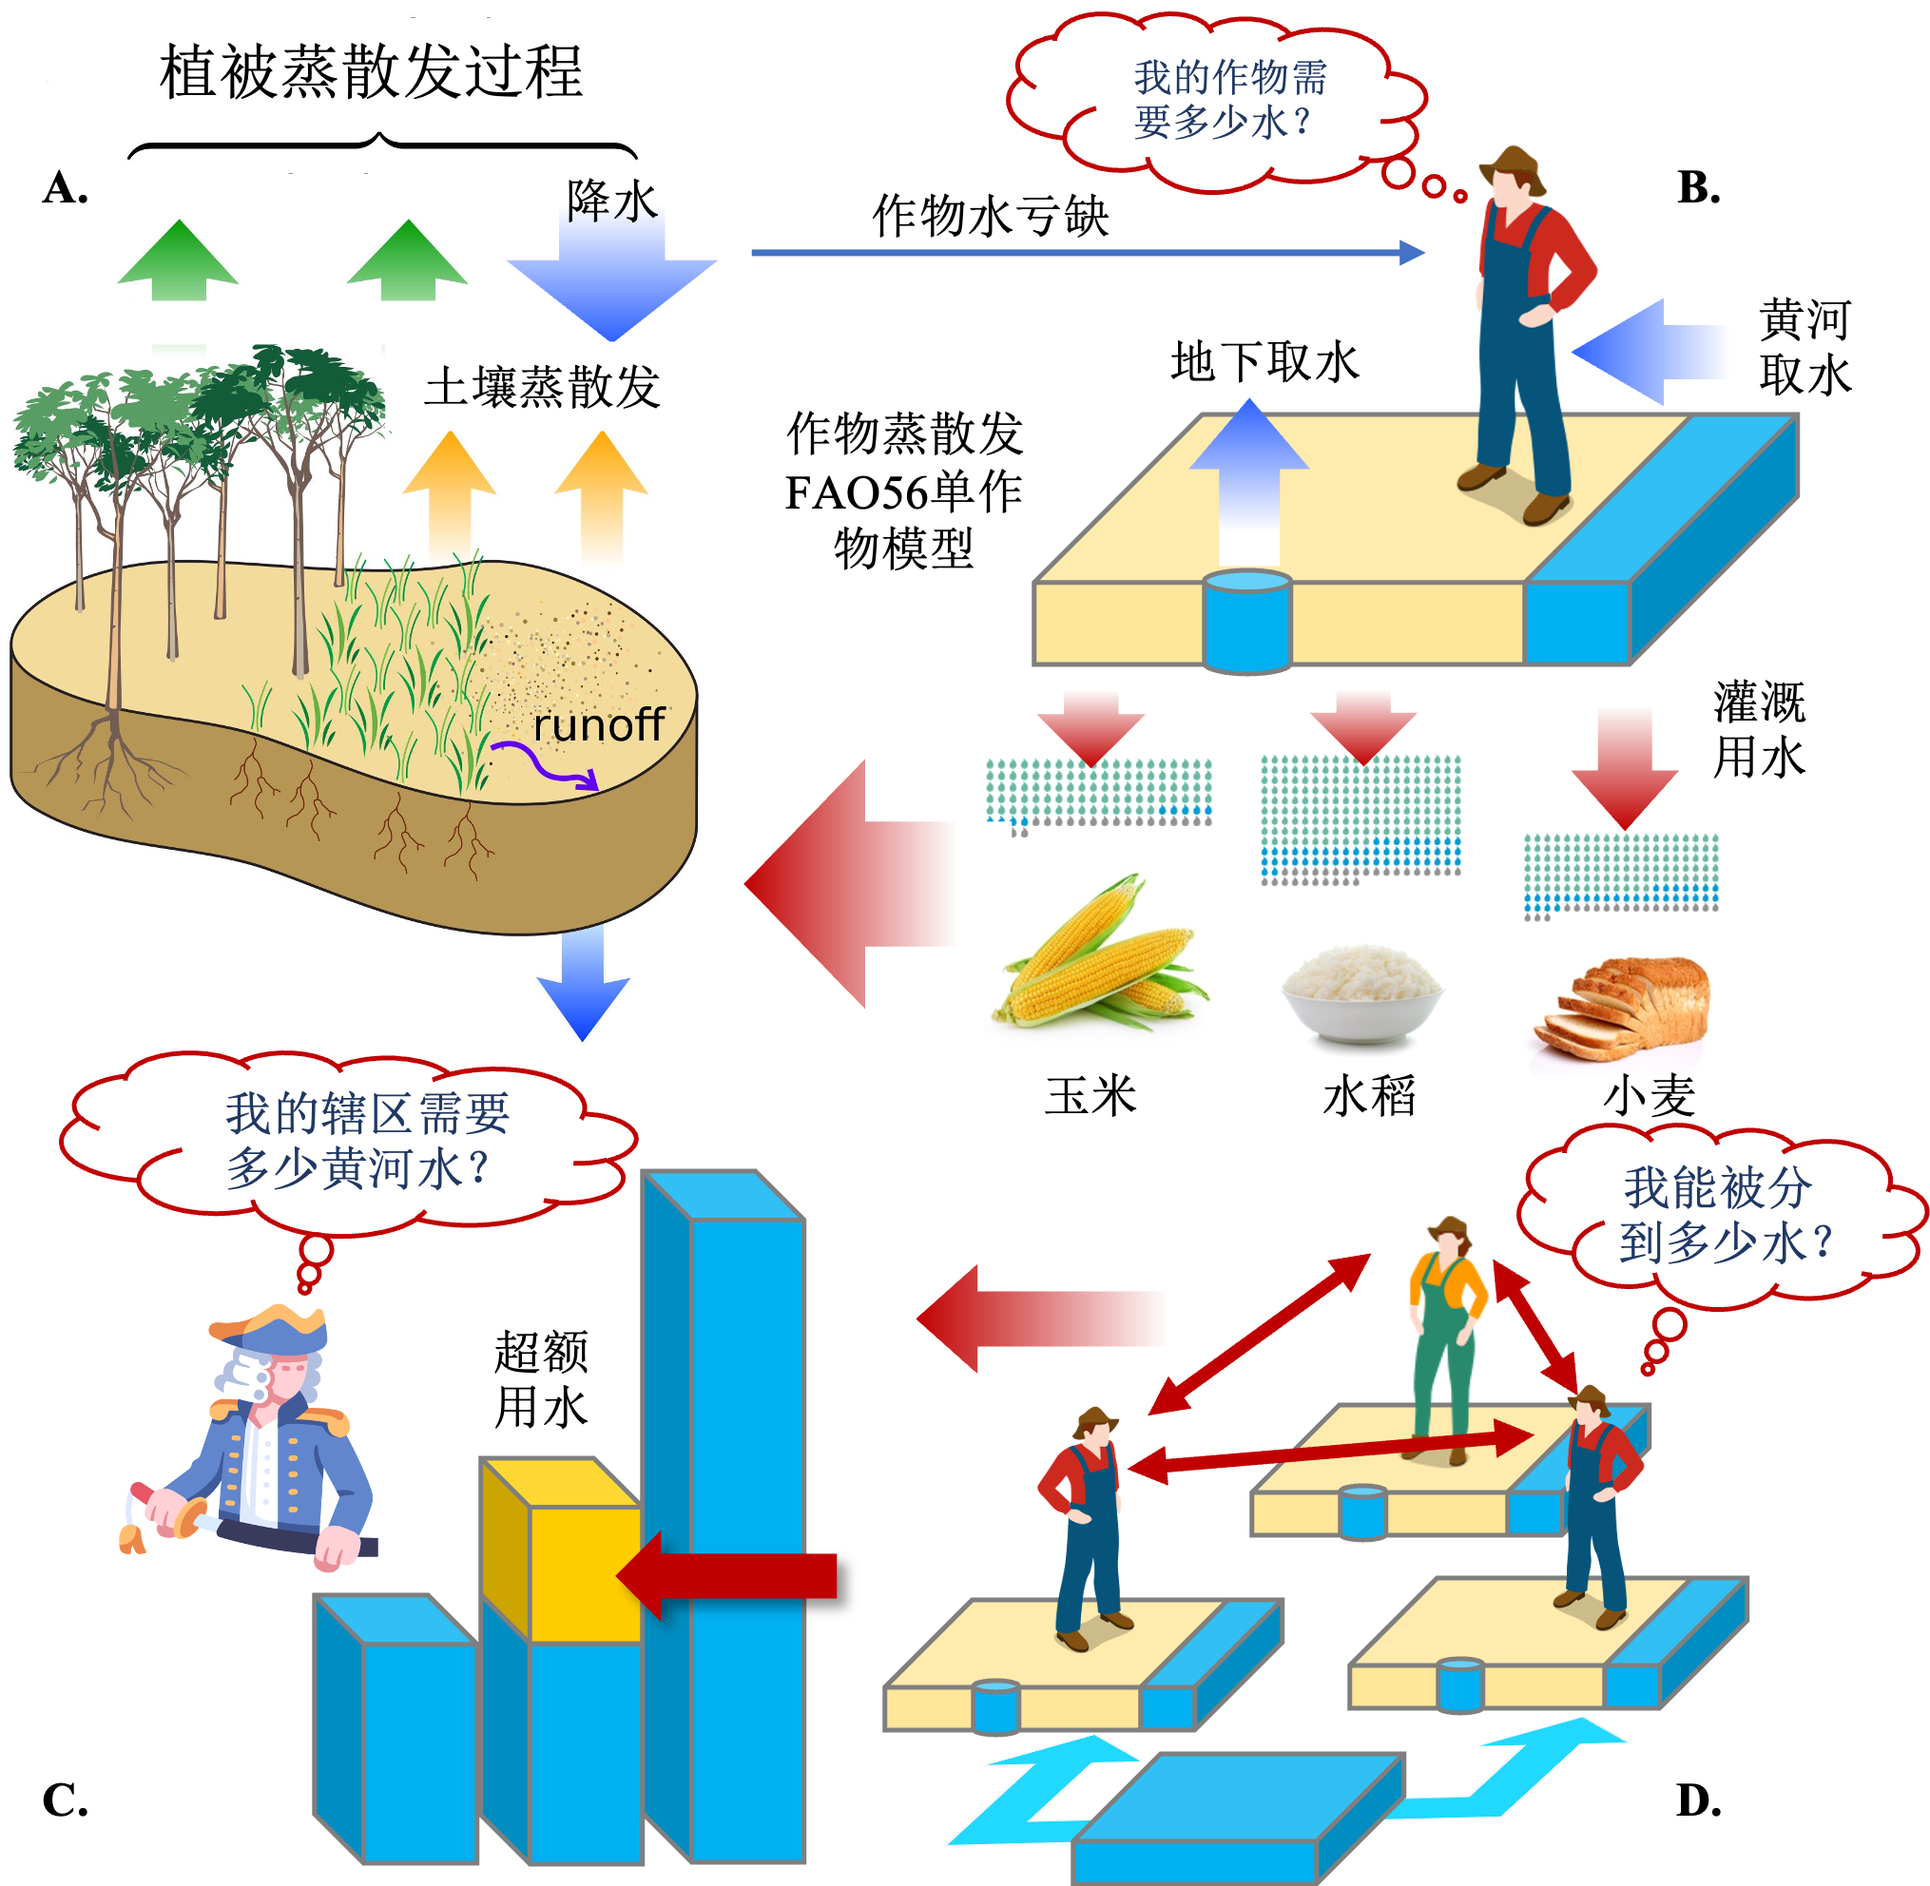
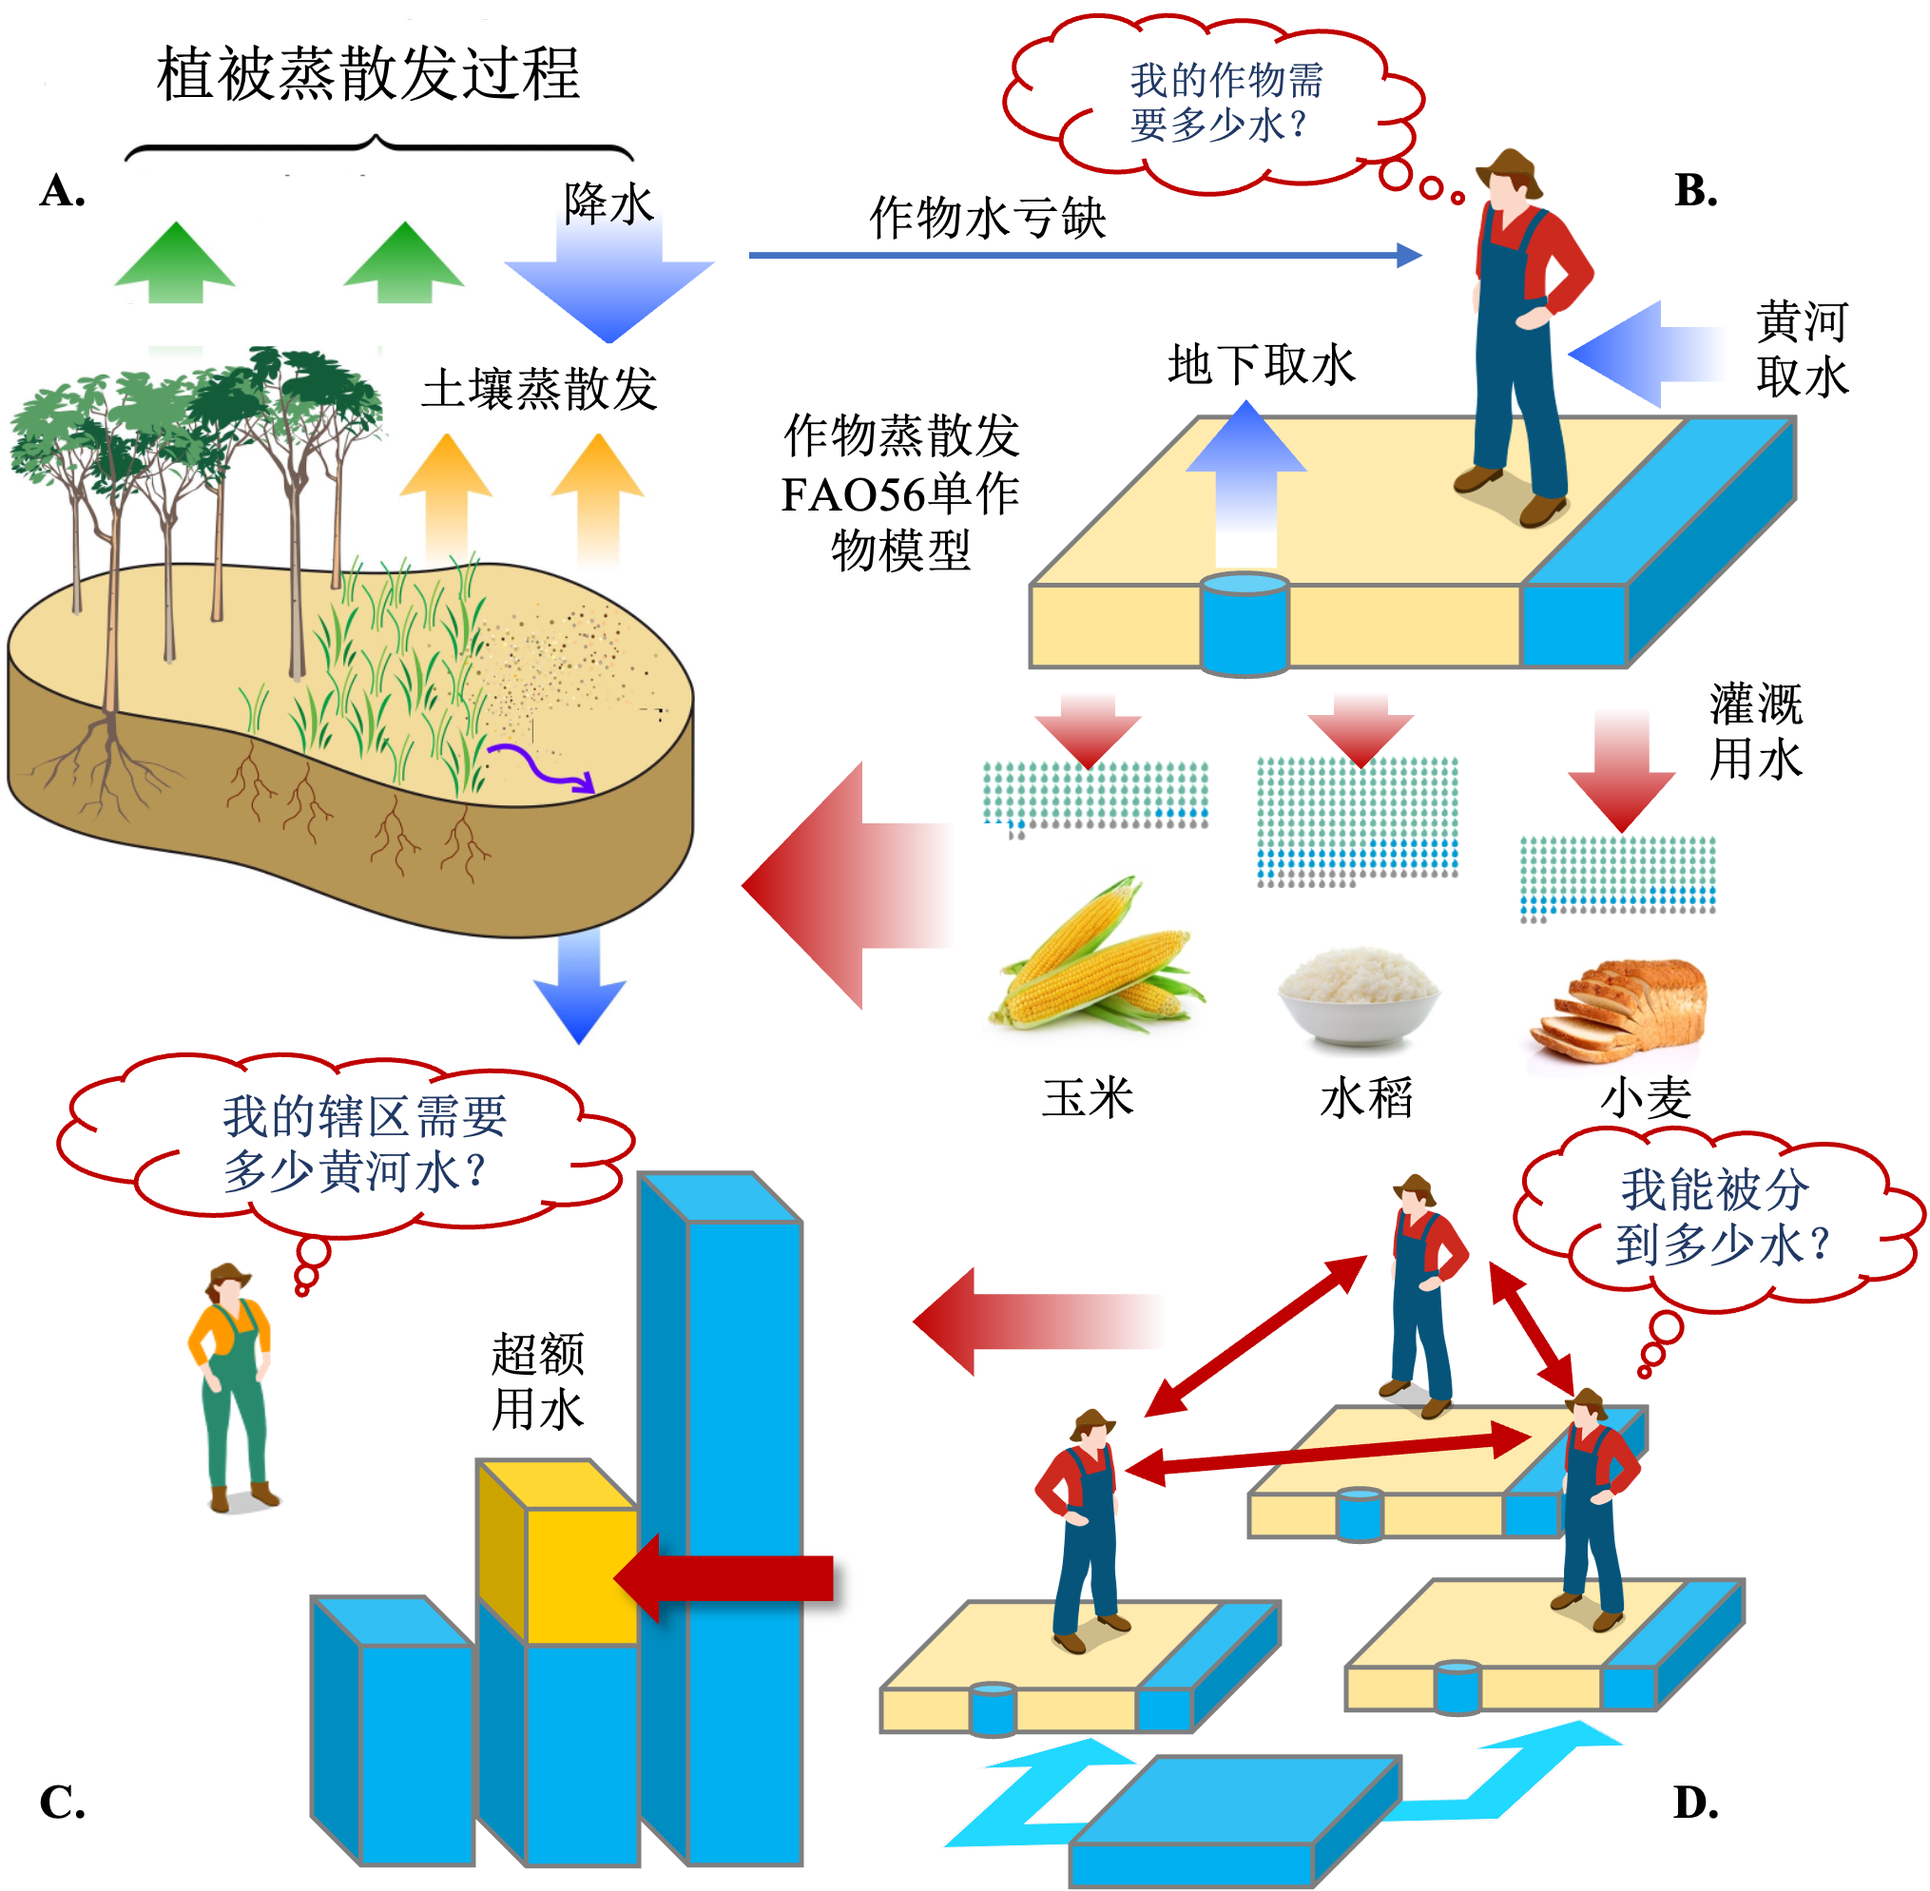
fix(project): :bug: 修改标题和作图细节
驱动机制、作图去掉英国佬

王总的批注

diff --git a/chapter4/source/ch4_methods.tex b/chapter4/source/ch4_methods.tex
@@ -3,7 +3,7 @@
 
 % 根据本研究的定义，人类活动主导下的人-水关系是社会-水文二元循环中由人类主导的决策模式
 % 而水治理（Water Governance）是指影响水使用和管理的政治、社会、经济、和行政系统相互作用的全部过程，本质上是关于“谁获得水，何时获得水，如何获得水”（``who gets water, when and how''）。
-联合国开发计划署（UNDP）提出\cite{undpwatergovernancefacility2016}，水治理决定了与水有关的三个核心方面：“什么时候稀缺情况?”“水如何为人类福祉提供不同的生态系统服务?”以及“谁能平等有效地用水?”——简而言之，水治理是决定水资源“稀缺情况”、“使用目的”、和“分配方式”的关键。
+联合国开发计划署（UNDP）提出\cite{undpwatergovernancefacility2016}，水治理决定了与水有关的三个核心方面：“什么时候有多少水用?”“水如何为人类福祉提供不同的生态系统服务?”以及“谁能平等有效地用水?”——简而言之，水治理是决定水资源“稀缺情况”、“使用目的”、和“分配方式”的关键。
 为此，本章研究将水治理的三个核心方面（“稀缺情况”、“使用目的”和“分配方式”）各自选择指标进行量化，通过对它们进行同等加权，得到综合水治理指数（Integrated Water Governance Index, IWGI）以识别水治理的稳态变化（见图\ref{ch4:fig:framework}~B）。
 然后，通过将该指数应用在黄河这个典型的人类活动主导的流域，利用突变点检测的方法分析了$1965\sim2013$年间IWGI的变化，展示该IWGI如何有助于检测和描述复杂的水治理稳态变迁。
 最后，在综合分析了水资源供需、经济发展、环境变迁，以及制度变化后，本章解释了黄河流域水治理稳态变化的主要驱动因素，并总结提出了一个过渡模式，为人类活动主导大河流域面临的治理挑战提供了一个实践指南。
@@ -37,7 +37,7 @@
 
 \subsection{综合治理指数}
 
-\subsubsection{综合指标构建}
+\subsubsection{综合指标构建方法}
 
 % 将三者合一起，即：
 如本章前文介绍以及框架图~\ref{ch4:fig:framework}所示，本研究定义的水资源治理综合指数（IWGI）应结合水治理的三个方面（“稀缺情况（S）”、“使用目的（P）”和“分配方式（A）”）。
@@ -65,9 +65,9 @@
 
 对三个方面各自的指标选取如下文所述。
 
-\subsubsection{子指标：稀缺情况}
+\subsubsection{子指标：水的稀缺情况}
 
-“稀缺情况”不仅取决于气候能提供稀缺情况资源（而且在许多地区日益稀缺和不确定性），还取决于灌溉和工业等经济活动的需求（日益无法被满足），更可以被水库蓄水、跨流域调水等工程所人为改变\cite{qin2019,wada2014,huang2021}。
+水的“稀缺情况”不仅取决于气候能提供稀缺情况资源（而且在许多地区日益稀缺和不确定性），还取决于灌溉和工业等经济活动的需求（日益无法被满足），更可以被水库蓄水、跨流域调水等工程所人为改变\cite{qin2019,wada2014,huang2021}。
 本章研究采用Qin等人（2019）提出的稀缺性-韧性-易变性（SFV）水稀缺指数来评价“稀缺情况”的问题\cite{qin2019}。
 这一指标考虑了管理措施（如水库的建设）和用水结构变化（有些用水方式如能源用水是难以被短期替代的），对水资源短缺情况做出评估。
 此外，SFV指数还考虑了水资源的灵活性和易变性（例如气候差异带来的降水波动），从发展的角度关注水资源的动态，是衡量水资源压力\cite{qin2019}时间变化的有效指标。
@@ -112,9 +112,9 @@
 \end{gather}
 
 
-\subsubsection{子指标：使用目的}
+\subsubsection{子指标：水的使用目的}
 
-“使用目的”与水能够提供的生态系统服务有关，但目前对文化、调节服务等缺乏成熟统一的评估框架，且受限于数据，本研究仅将用水分为供给用途（例如，日常饮用和食品生产）和非供给用途（例如能源冷却用水）的用水\cite{liu2017,florke2018,jaeger2019}。
+水的“使用目的”与水能够提供的生态系统服务有关，但目前对文化、调节服务等缺乏成熟统一的评估框架，且受限于数据，本研究仅将用水分为供给用途（例如，日常饮用和食品生产）和非供给用途（例如能源冷却用水）的用水\cite{liu2017,florke2018,jaeger2019}。
 本章研究使用非供给服务目的在全部用水量中所占比例（Non-provisioning Share, NPS）作为量化“使用目的（P）”$I_P$的指标。
 
 \begin{equation}
@@ -124,9 +124,9 @@
 其中（$WU_{pro}$）为供给服务用水，包括家庭用水、灌溉用水和牲畜用水；非供给服务的用水（$WU_{non-pro}$）包括工业用水和城市服务用水。
 % 本章研究将牲畜用水、城乡生活用水和农业用水作为供应用水，因为它们直接服务于生存。其他的是非供应：服务和工业用水，因为它们主要为经济服务。
 
-\subsubsection{子指标：分配方式}
+\subsubsection{子指标：水的分配方式}
 
-最后，“分配方式”也并非取决于区域的社会经济水平和自然环境背景，流域的水资源分配还会受到流域系统调度的工程（如水库统一调度）、非工程因素（如水资源分配制度）的影响\cite{schmandt2021,speed2013}。
+最后，水的“分配方式”也并非取决于区域的社会经济水平和自然环境背景，流域的水资源分配还会受到流域系统调度的工程（如水库统一调度）、非工程因素（如水资源分配制度）的影响\cite{schmandt2021,speed2013}。
 为了描述分配$I_A$，本章研究设计了一个基于熵的分配度量指标，它衡量水分配的均匀程度:
 
 \begin{equation}

diff --git a/chapter6/source/tab_packages.tex b/chapter6/source/tab_packages.tex
@@ -2,11 +2,11 @@
 \begin{table}[htbp]
     \centering
     \caption{多主体模型使用的开源软件包}
-      \begin{tabularx}{0.8\textwidth}{p{1.5cm} p{1.5cm} L}
+      \begin{tabularx}{0.9\textwidth}{p{2cm} p{1.5cm} L}
         \toprule
       名称    & 版本号   & 描述 \\
       \midrule
-      ABSESpy & branch='dev' & 自动建设简单的 ABM 模型 \\
+      ABSESpy & 0.1.3 & 自动建设简单的 ABM 模型 \\
       hydra-core & 1.3.2 & 简化应用程序的配置 \\
       xarray & 2023.2.0 & 处理标记数据数组的 Python 库 \\
       rasterio & 1.3.6 & 用于读写栅格数据的 Python 库 \\
@@ -14,7 +14,7 @@
       rioxarray & 0.13.4 & Rasterio + xarray：利用 xarray 的能力读取和处理栅格数据 \\
       networkx & 3.0 & 创建、操作和学习复杂网络的工具 \\
       dataclasses-json & 0.5.7 & 将数据类编码为 JSON 的 Python 库 \\
-      China-Water-Uses & branch='dev' & 加载、组织和绘制中国用水数据 \\
+      China-Water-Uses & 0.1.0 & 加载、组织和绘制中国用水数据 \\
       fiona & 1.9.1 & 读写 GIS 数据格式的 Python 库 \\
       seaborn & 0.12.2 & 用于绘制漂亮且有信息量的统计图形的 Python 库 \\
       geocube & 0.4.0 & 将栅格数据转换为向量数据的 Python 库 \\

diff --git a/chapter6/source/tab_crops.tex b/chapter6/source/tab_crops.tex
@@ -1,7 +1,7 @@
 
 % Table generated by Excel2LaTeX from sheet '作物物候表'
 \begin{table}[htbp]
-    \centering
+    % \centering
     \caption{黄河流域三种主要粮食作物的物候表$^a$}
       \begin{tabularx}{\textwidth}{p{0.8cm} LLLLL p{0.8cm} p{0.8cm} p{0.8cm}}
       \toprule

diff --git a/chapter5/chapter5.tex b/chapter5/chapter5.tex
@@ -1,4 +1,4 @@
-\chapter{流域人水关系演变的制度驱动}\label{cha:5}
+\chapter{流域人水关系演变的制度驱动机制}\label{cha:5}
 \input{chapter5/ch5_preface.tex}
 
 \section{研究方法与数据来源}\label{ch5:methods}
